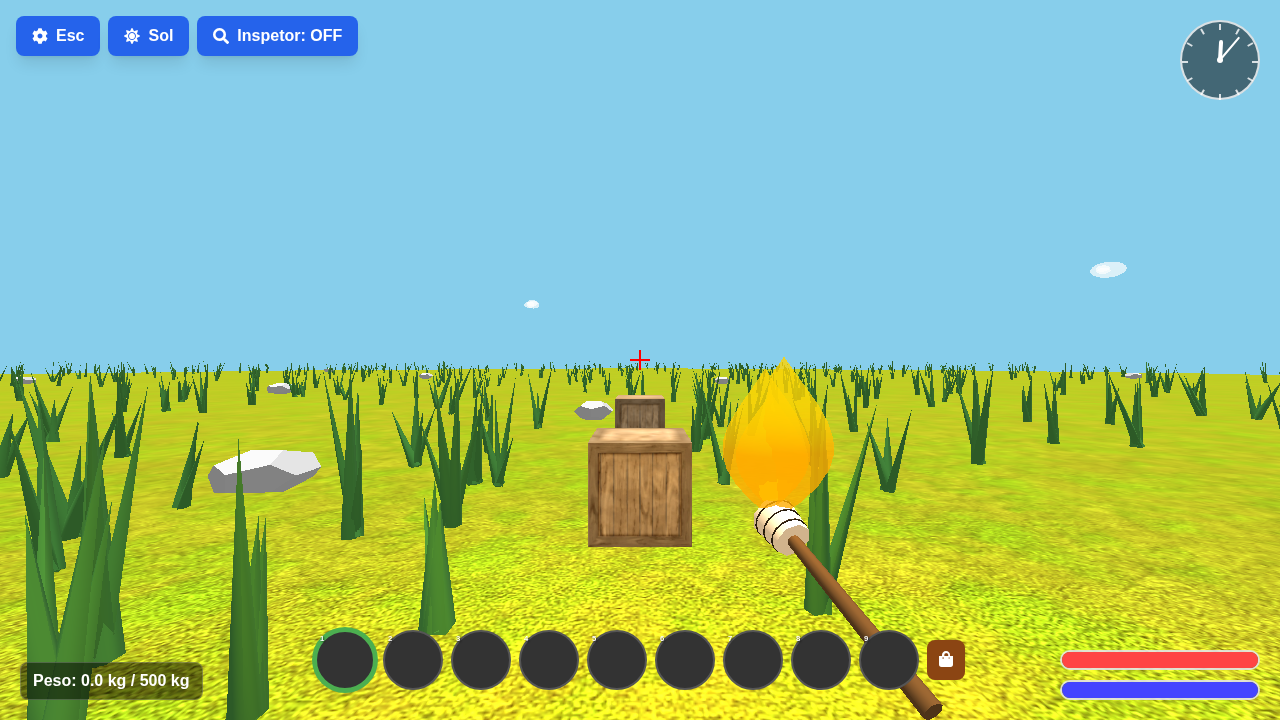
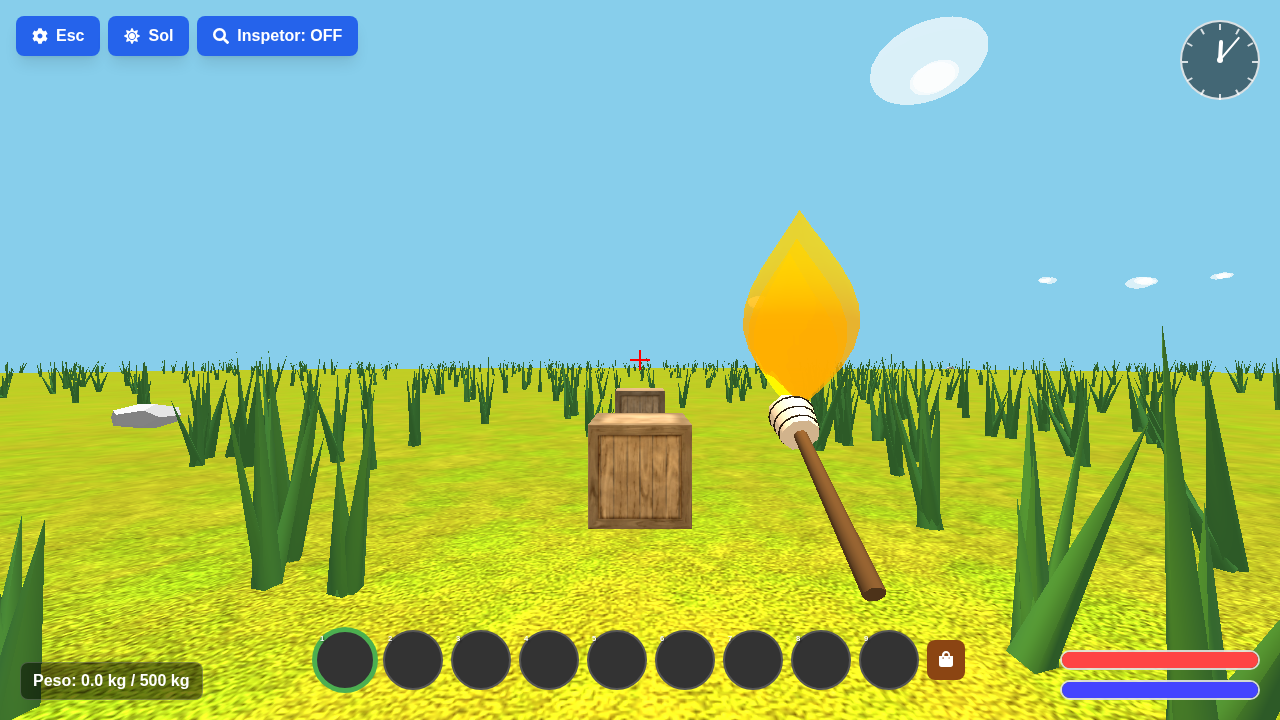
Merge pull request #782 from Armandodecampos/torch-appearance-update-15004611378543155933
Update held torch position and flame size

Pull request: Update held torch position and flame size
- Adjusted held torch position to (0.6, -0.6, -0.5) and rotation to appear from the bottom-right corner.
- Significantly increased flame scaling in createTorchModel (Outer: 6.5x/5.5x, Inner: 4.5x/4.2x).
- Verified changes with automated screenshots.

diff --git a/index.htm b/index.htm
@@ -3946,8 +3946,8 @@
             for (let i = 0; i < 3; i++) {
                 const fire = new THREE.Mesh(torchFireGeom, torchOrangeFireMat);
                 // Increased scale for visibility
-                const sW = bundleRadius * 4.5;
-                const sH = bundleHeight * 3.5;
+                const sW = bundleRadius * 6.5;
+                const sH = bundleHeight * 5.5;
                 fire.scale.set(sW, sH, sW);
                 fire.userData.baseScale = { x: sW, y: sH, z: sW };
                 fire.position.set((Math.random() - 0.5) * 0.05, bundleHeight * 0.1, (Math.random() - 0.5) * 0.05);
@@ -3956,8 +3956,8 @@
             }
             // Inner flame (Gota shape) - Increased scale
             const innerFire = new THREE.Mesh(torchFireGeom, torchYellowFireMat);
-            const siW = bundleRadius * 2.7;
-            const siH = bundleHeight * 2.4;
+            const siW = bundleRadius * 4.5;
+            const siH = bundleHeight * 4.2;
             innerFire.scale.set(siW, siH, siW);
             innerFire.userData.baseScale = { x: siW, y: siH, z: siW };
             innerFire.position.y = bundleHeight * 0.1;
@@ -4609,11 +4609,11 @@
             heldTorchLight = heldTorchModel.light;
 
             // Inclina a tocha para frente e para o lado (saindo do canto inferior direito)
-            heldTorchModel.group.rotation.x = -Math.PI / 3;
-            heldTorchModel.group.rotation.y = -Math.PI / 6;
-            heldTorchModel.group.rotation.z = Math.PI / 10;
+            heldTorchModel.group.rotation.x = -Math.PI / 2.5;
+            heldTorchModel.group.rotation.y = -Math.PI / 5;
+            heldTorchModel.group.rotation.z = 0;
 
-            heldTorchGroup.position.set(0.5, -0.6, -0.8); // Posiciona no canto inferior direito da tela, mais para trás
+            heldTorchGroup.position.set(0.6, -0.6, -0.5); // Posiciona no canto inferior direito da tela, vindo de trás da câmera
             heldTorchGroup.visible = false;
             camera.add(heldTorchGroup);
 